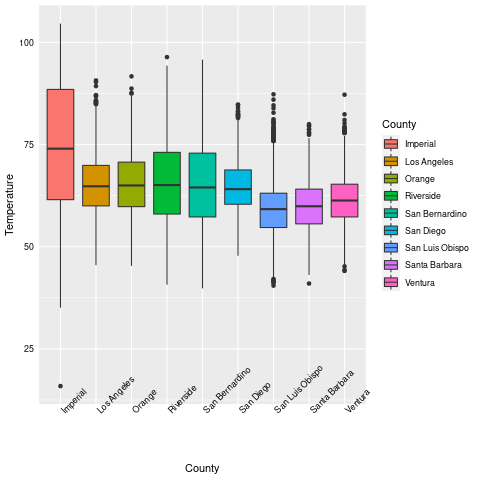
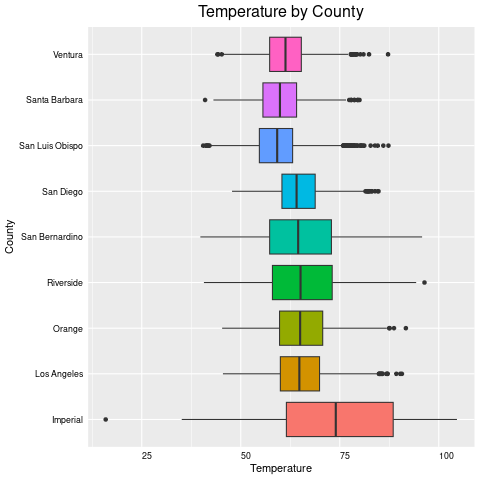
8-2-2023

diff --git a/index.html b/index.html
@@ -129,7 +129,7 @@ ul.task-list{list-style: none;}
 <!-- margin-sidebar -->
     <div id="quarto-margin-sidebar" class="sidebar margin-sidebar">
         
-    <h5 class="quarto-listing-category-title">Categories</h5><div class="quarto-listing-category category-default"><div class="category" data-category="">All <span class="quarto-category-count">(9)</span></div><div class="category" data-category="calfire">calfire <span class="quarto-category-count">(8)</span></div><div class="category" data-category="my_story">my_story <span class="quarto-category-count">(1)</span></div><div class="category" data-category="project">project <span class="quarto-category-count">(8)</span></div></div></div>
+    <h5 class="quarto-listing-category-title">Categories</h5><div class="quarto-listing-category category-default"><div class="category" data-category="">All <span class="quarto-category-count">(10)</span></div><div class="category" data-category="calfire">calfire <span class="quarto-category-count">(8)</span></div><div class="category" data-category="my_story">my_story <span class="quarto-category-count">(1)</span></div><div class="category" data-category="project">project <span class="quarto-category-count">(8)</span></div></div></div>
 <!-- main -->
 <main class="content quarto-banner-title-block column-page-left" id="quarto-document-content">
 
@@ -141,7 +141,31 @@ ul.task-list{list-style: none;}
 
 <div class="quarto-listing quarto-listing-container-default" id="listing-listing">
 <div class="list quarto-listing-default">
-<div class="quarto-post image-right" data-index="0" data-categories="project,calfire" data-listing-date-sort="1666803600000" data-listing-file-modified-sort="1667080093254" data-listing-reading-time-sort="19.295">
+<div class="quarto-post image-right" data-index="0" data-listing-file-modified-sort="1674700414182" data-listing-reading-time-sort="0">
+<div class="thumbnail">
+<a href="./posts/untitled.html">
+<div class="thumbnail-image">
+
+</div>
+</a><p><a href="./posts/untitled.html"></a></p>
+</div>
+<div class="body">
+<a href="./posts/untitled.html">
+<h3 class="no-anchor listing-title">
+</h3>
+<div class="listing-subtitle">
+
+</div>
+<div class="listing-description">
+
+</div>
+</a>
+</div>
+<div class="metadata">
+<a href="./posts/untitled.html"> </a>
+</div>
+</div>
+<div class="quarto-post image-right" data-index="1" data-categories="project,calfire" data-listing-date-sort="1666803600000" data-listing-file-modified-sort="1667080093254" data-listing-reading-time-sort="19.295">
 <div class="thumbnail">
 <p><a href="./posts/compare_index/index.html"> <img src="./posts/compare_index/r_packages.jpeg" class="thumnail-image"> </a></p>
 </div>
@@ -179,7 +203,7 @@ Lulus Adhitya
 </a>
 </div>
 </div>
-<div class="quarto-post image-right" data-index="1" data-categories="project,calfire" data-listing-date-sort="1664125200000" data-listing-file-modified-sort="1674571193973" data-listing-reading-time-sort="7.085">
+<div class="quarto-post image-right" data-index="2" data-categories="project,calfire" data-listing-date-sort="1664125200000" data-listing-file-modified-sort="1675834737480" data-listing-reading-time-sort="8.21">
 <div class="thumbnail">
 <p><a href="./posts/weather_stats/index.html"> <img src="./posts/weather_stats/stats.jpg" class="thumnail-image"> </a></p>
 </div>
@@ -217,7 +241,7 @@ Lulus Adhitya
 </a>
 </div>
 </div>
-<div class="quarto-post image-right" data-index="2" data-categories="project,calfire" data-listing-date-sort="1663779600000" data-listing-file-modified-sort="1665001934628" data-listing-reading-time-sort="2.605">
+<div class="quarto-post image-right" data-index="3" data-categories="project,calfire" data-listing-date-sort="1663779600000" data-listing-file-modified-sort="1665001934628" data-listing-reading-time-sort="2.605">
 <div class="thumbnail">
 <p><a href="./posts/southcal_fireincident/index.html"> <img src="./posts/southcal_fireincident/wildfire.jpg" class="thumnail-image"> </a></p>
 </div>
@@ -255,7 +279,7 @@ Lulus Adhitya
 </a>
 </div>
 </div>
-<div class="quarto-post image-right" data-index="3" data-categories="project,calfire" data-listing-date-sort="1663779600000" data-listing-file-modified-sort="1665059211141" data-listing-reading-time-sort="4.255">
+<div class="quarto-post image-right" data-index="4" data-categories="project,calfire" data-listing-date-sort="1663779600000" data-listing-file-modified-sort="1665059211141" data-listing-reading-time-sort="4.255">
 <div class="thumbnail">
 <p><a href="./posts/heat_index/index.html"> <img src="./posts/heat_index/heat_index.jpeg" class="thumnail-image"> </a></p>
 </div>
@@ -293,7 +317,7 @@ Lulus Adhitya
 </a>
 </div>
 </div>
-<div class="quarto-post image-right" data-index="4" data-categories="project,calfire" data-listing-date-sort="1663606800000" data-listing-file-modified-sort="1674575631393" data-listing-reading-time-sort="3.835">
+<div class="quarto-post image-right" data-index="5" data-categories="project,calfire" data-listing-date-sort="1663606800000" data-listing-file-modified-sort="1674575631393" data-listing-reading-time-sort="3.835">
 <div class="thumbnail">
 <p><a href="./posts/weather_fire/index.html"> <img src="./posts/weather_fire/storm.jpg" class="thumnail-image"> </a></p>
 </div>
@@ -331,7 +355,7 @@ Lulus Adhitya
 </a>
 </div>
 </div>
-<div class="quarto-post image-right" data-index="5" data-categories="project,calfire" data-listing-date-sort="1663520400000" data-listing-file-modified-sort="1665002014443" data-listing-reading-time-sort="0.685">
+<div class="quarto-post image-right" data-index="6" data-categories="project,calfire" data-listing-date-sort="1663520400000" data-listing-file-modified-sort="1665002014443" data-listing-reading-time-sort="0.685">
 <div class="thumbnail">
 <p><a href="./posts/detective_in_actions/index.html"> <img src="./posts/detective_in_actions/detective.jpg" class="thumnail-image"> </a></p>
 </div>
@@ -369,7 +393,7 @@ Lulus Adhitya
 </a>
 </div>
 </div>
-<div class="quarto-post image-right" data-index="6" data-categories="project,calfire" data-listing-date-sort="1662483600000" data-listing-file-modified-sort="1674658939723" data-listing-reading-time-sort="29.71">
+<div class="quarto-post image-right" data-index="7" data-categories="project,calfire" data-listing-date-sort="1662483600000" data-listing-file-modified-sort="1674658939723" data-listing-reading-time-sort="29.71">
 <div class="thumbnail">
 <p><a href="./posts/southcal_weather_2010_2020/index.html"> <img src="./posts/southcal_weather_2010_2020/weather.jpg" class="thumnail-image"> </a></p>
 </div>
@@ -407,7 +431,7 @@ Lulus Adhitya
 </a>
 </div>
 </div>
-<div class="quarto-post image-right" data-index="7" data-categories="project,calfire" data-listing-date-sort="1658595600000" data-listing-file-modified-sort="1674566779634" data-listing-reading-time-sort="3.12">
+<div class="quarto-post image-right" data-index="8" data-categories="project,calfire" data-listing-date-sort="1658595600000" data-listing-file-modified-sort="1674566779634" data-listing-reading-time-sort="3.12">
 <div class="thumbnail">
 <p><a href="./posts/wildfire_by_cause/index.html"> <img src="./posts/wildfire_by_cause/image.jpg" class="thumnail-image"> </a></p>
 </div>
@@ -445,7 +469,7 @@ Lulus Adhitya
 </a>
 </div>
 </div>
-<div class="quarto-post image-right" data-index="8" data-categories="my_story" data-listing-date-sort="1658250000000" data-listing-file-modified-sort="1663423334371" data-listing-reading-time-sort="0.17">
+<div class="quarto-post image-right" data-index="9" data-categories="my_story" data-listing-date-sort="1658250000000" data-listing-file-modified-sort="1663423334371" data-listing-reading-time-sort="0.17">
 <div class="thumbnail">
 <p><a href="./posts/welcome/index.html"> <img src="./posts/welcome/thumbnail.jpg" class="thumnail-image"> </a></p>
 </div>

diff --git a/posts/untitled.html b/posts/untitled.html
@@ -1,0 +1,209 @@
+<!DOCTYPE html>
+<html xmlns="http://www.w3.org/1999/xhtml" lang="en" xml:lang="en"><head>
+
+<meta charset="utf-8">
+<meta name="generator" content="quarto-1.0.28">
+
+<meta name="viewport" content="width=device-width, initial-scale=1.0, user-scalable=yes">
+
+
+<title>Home – untitled</title>
+<style>
+code{white-space: pre-wrap;}
+span.smallcaps{font-variant: small-caps;}
+span.underline{text-decoration: underline;}
+div.column{display: inline-block; vertical-align: top; width: 50%;}
+div.hanging-indent{margin-left: 1.5em; text-indent: -1.5em;}
+ul.task-list{list-style: none;}
+</style>
+
+
+<script src="../site_libs/quarto-nav/quarto-nav.js"></script>
+<script src="../site_libs/quarto-nav/headroom.min.js"></script>
+<script src="../site_libs/clipboard/clipboard.min.js"></script>
+<script src="../site_libs/quarto-search/autocomplete.umd.js"></script>
+<script src="../site_libs/quarto-search/fuse.min.js"></script>
+<script src="../site_libs/quarto-search/quarto-search.js"></script>
+<meta name="quarto:offset" content="../">
+<script src="../site_libs/quarto-html/quarto.js"></script>
+<script src="../site_libs/quarto-html/popper.min.js"></script>
+<script src="../site_libs/quarto-html/tippy.umd.min.js"></script>
+<script src="../site_libs/quarto-html/anchor.min.js"></script>
+<link href="../site_libs/quarto-html/tippy.css" rel="stylesheet">
+<link href="../site_libs/quarto-html/quarto-syntax-highlighting.css" rel="stylesheet" id="quarto-text-highlighting-styles">
+<script src="../site_libs/bootstrap/bootstrap.min.js"></script>
+<link href="../site_libs/bootstrap/bootstrap-icons.css" rel="stylesheet">
+<link href="../site_libs/bootstrap/bootstrap.min.css" rel="stylesheet" id="quarto-bootstrap" data-mode="light">
+<script id="quarto-search-options" type="application/json">{
+  "location": "navbar",
+  "copy-button": false,
+  "collapse-after": 3,
+  "panel-placement": "end",
+  "type": "overlay",
+  "limit": 20,
+  "language": {
+    "search-no-results-text": "No results",
+    "search-matching-documents-text": "matching documents",
+    "search-copy-link-title": "Copy link to search",
+    "search-hide-matches-text": "Hide additional matches",
+    "search-more-match-text": "more match in this document",
+    "search-more-matches-text": "more matches in this document",
+    "search-clear-button-title": "Clear",
+    "search-detached-cancel-button-title": "Cancel",
+    "search-submit-button-title": "Submit"
+  }
+}</script>
+
+
+<link rel="stylesheet" href="../styles.css">
+</head>
+
+<body class="nav-fixed fullcontent">
+
+<div id="quarto-search-results"></div>
+  <header id="quarto-header" class="headroom fixed-top">
+    <nav class="navbar navbar-expand-lg navbar-dark ">
+      <div class="navbar-container container-fluid">
+      <a class="navbar-brand" href="../index.html">
+    <span class="navbar-title">Home</span>
+  </a>
+          <button class="navbar-toggler" type="button" data-bs-toggle="collapse" data-bs-target="#navbarCollapse" aria-controls="navbarCollapse" aria-expanded="false" aria-label="Toggle navigation" onclick="if (window.quartoToggleHeadroom) { window.quartoToggleHeadroom(); }">
+  <span class="navbar-toggler-icon"></span>
+</button>
+          <div class="collapse navbar-collapse" id="navbarCollapse">
+            <ul class="navbar-nav navbar-nav-scroll ms-auto">
+  <li class="nav-item">
+    <a class="nav-link" href="../about.html">Lulus Adhitya Kahono</a>
+  </li>  
+  <li class="nav-item compact">
+    <a class="nav-link" href="https://github.com/"><i class="bi bi-github" role="img">
+</i> 
+ </a>
+  </li>  
+  <li class="nav-item compact">
+    <a class="nav-link" href="https://twitter.com"><i class="bi bi-twitter" role="img">
+</i> 
+ </a>
+  </li>  
+</ul>
+              <div id="quarto-search" class="" title="Search"></div>
+          </div> <!-- /navcollapse -->
+      </div> <!-- /container-fluid -->
+    </nav>
+</header>
+<!-- content -->
+<div id="quarto-content" class="quarto-container page-columns page-rows-contents page-layout-article page-navbar">
+<!-- sidebar -->
+<!-- margin-sidebar -->
+    
+<!-- main -->
+<main class="content quarto-banner-title-block" id="quarto-document-content">
+
+
+
+
+
+
+</main> <!-- /main -->
+<script id="quarto-html-after-body" type="application/javascript">
+window.document.addEventListener("DOMContentLoaded", function (event) {
+  const toggleBodyColorMode = (bsSheetEl) => {
+    const mode = bsSheetEl.getAttribute("data-mode");
+    const bodyEl = window.document.querySelector("body");
+    if (mode === "dark") {
+      bodyEl.classList.add("quarto-dark");
+      bodyEl.classList.remove("quarto-light");
+    } else {
+      bodyEl.classList.add("quarto-light");
+      bodyEl.classList.remove("quarto-dark");
+    }
+  }
+  const toggleBodyColorPrimary = () => {
+    const bsSheetEl = window.document.querySelector("link#quarto-bootstrap");
+    if (bsSheetEl) {
+      toggleBodyColorMode(bsSheetEl);
+    }
+  }
+  toggleBodyColorPrimary();  
+  const icon = "";
+  const anchorJS = new window.AnchorJS();
+  anchorJS.options = {
+    placement: 'right',
+    icon: icon
+  };
+  anchorJS.add('.anchored');
+  const clipboard = new window.ClipboardJS('.code-copy-button', {
+    target: function(trigger) {
+      return trigger.previousElementSibling;
+    }
+  });
+  clipboard.on('success', function(e) {
+    // button target
+    const button = e.trigger;
+    // don't keep focus
+    button.blur();
+    // flash "checked"
+    button.classList.add('code-copy-button-checked');
+    var currentTitle = button.getAttribute("title");
+    button.setAttribute("title", "Copied!");
+    setTimeout(function() {
+      button.setAttribute("title", currentTitle);
+      button.classList.remove('code-copy-button-checked');
+    }, 1000);
+    // clear code selection
+    e.clearSelection();
+  });
+  function tippyHover(el, contentFn) {
+    const config = {
+      allowHTML: true,
+      content: contentFn,
+      maxWidth: 500,
+      delay: 100,
+      arrow: false,
+      appendTo: function(el) {
+          return el.parentElement;
+      },
+      interactive: true,
+      interactiveBorder: 10,
+      theme: 'quarto',
+      placement: 'bottom-start'
+    };
+    window.tippy(el, config); 
+  }
+  const noterefs = window.document.querySelectorAll('a[role="doc-noteref"]');
+  for (var i=0; i<noterefs.length; i++) {
+    const ref = noterefs[i];
+    tippyHover(ref, function() {
+      let href = ref.getAttribute('href');
+      try { href = new URL(href).hash; } catch {}
+      const id = href.replace(/^#\/?/, "");
+      const note = window.document.getElementById(id);
+      return note.innerHTML;
+    });
+  }
+  var bibliorefs = window.document.querySelectorAll('a[role="doc-biblioref"]');
+  for (var i=0; i<bibliorefs.length; i++) {
+    const ref = bibliorefs[i];
+    const cites = ref.parentNode.getAttribute('data-cites').split(' ');
+    tippyHover(ref, function() {
+      var popup = window.document.createElement('div');
+      cites.forEach(function(cite) {
+        var citeDiv = window.document.createElement('div');
+        citeDiv.classList.add('hanging-indent');
+        citeDiv.classList.add('csl-entry');
+        var biblioDiv = window.document.getElementById('ref-' + cite);
+        if (biblioDiv) {
+          citeDiv.innerHTML = biblioDiv.innerHTML;
+        }
+        popup.appendChild(citeDiv);
+      });
+      return popup.innerHTML;
+    });
+  }
+});
+</script>
+</div> <!-- /content -->
+
+
+
+</body></html>

diff --git a/posts/weather_stats/index.html b/posts/weather_stats/index.html
@@ -272,6 +272,11 @@ code span.wa { color: #60a0b0; font-weight: bold; font-style: italic; } /* Warni
 <h1>Welch ANOVA Test</h1>
 <section id="geographic-locations-effect-to-level-of-temperature" class="level2">
 <h2 class="anchored" data-anchor-id="geographic-locations-effect-to-level-of-temperature">1. Geographic locations effect to level of Temperature</h2>
+<div class="cell" data-execution_count="9">
+<div class="cell-output cell-output-display">
+<p><img src="index_files/figure-html/cell-10-output-1.png" class="img-fluid"></p>
+</div>
+</div>
 <div class="sourceCode" id="cb1"><pre class="sourceCode r code-with-copy"><code class="sourceCode r"><span id="cb1-1"><a href="#cb1-1" aria-hidden="true" tabindex="-1"></a><span class="sc">%%</span>R</span>
 <span id="cb1-2"><a href="#cb1-2" aria-hidden="true" tabindex="-1"></a><span class="fu">oneway.test</span>(Temperature <span class="sc">~</span> County,</span>
 <span id="cb1-3"><a href="#cb1-3" aria-hidden="true" tabindex="-1"></a>  <span class="at">data =</span> subset,</span>
@@ -292,6 +297,11 @@ code span.wa { color: #60a0b0; font-weight: bold; font-style: italic; } /* Warni
 </section>
 <section id="geographic-locations-effect-to-level-of-relative-humidity" class="level2">
 <h2 class="anchored" data-anchor-id="geographic-locations-effect-to-level-of-relative-humidity">2. Geographic locations effect to level of Relative Humidity</h2>
+<div class="cell" data-execution_count="13">
+<div class="cell-output cell-output-display">
+<p><img src="index_files/figure-html/cell-14-output-1.png" class="img-fluid"></p>
+</div>
+</div>
 <div class="sourceCode" id="cb3"><pre class="sourceCode r code-with-copy"><code class="sourceCode r"><span id="cb3-1"><a href="#cb3-1" aria-hidden="true" tabindex="-1"></a><span class="sc">%%</span>R</span>
 <span id="cb3-2"><a href="#cb3-2" aria-hidden="true" tabindex="-1"></a><span class="fu">oneway.test</span>(subset<span class="sc">$</span><span class="st">'Relative Humidity'</span> <span class="sc">~</span> County,</span>
 <span id="cb3-3"><a href="#cb3-3" aria-hidden="true" tabindex="-1"></a>  <span class="at">data =</span> subset,</span>
@@ -312,6 +322,11 @@ code span.wa { color: #60a0b0; font-weight: bold; font-style: italic; } /* Warni
 </section>
 <section id="geographic-locations-effect-to-level-of-cloud-cover" class="level2">
 <h2 class="anchored" data-anchor-id="geographic-locations-effect-to-level-of-cloud-cover">3. Geographic locations effect to level of Cloud Cover</h2>
+<div class="cell" data-execution_count="17">
+<div class="cell-output cell-output-display">
+<p><img src="index_files/figure-html/cell-18-output-1.png" class="img-fluid"></p>
+</div>
+</div>
 <div class="sourceCode" id="cb5"><pre class="sourceCode r code-with-copy"><code class="sourceCode r"><span id="cb5-1"><a href="#cb5-1" aria-hidden="true" tabindex="-1"></a><span class="sc">%%</span>R</span>
 <span id="cb5-2"><a href="#cb5-2" aria-hidden="true" tabindex="-1"></a><span class="fu">oneway.test</span>(subset<span class="sc">$</span><span class="st">'Cloud Cover'</span> <span class="sc">~</span> County,</span>
 <span id="cb5-3"><a href="#cb5-3" aria-hidden="true" tabindex="-1"></a>  <span class="at">data =</span> subset,</span>
@@ -332,6 +347,11 @@ code span.wa { color: #60a0b0; font-weight: bold; font-style: italic; } /* Warni
 </section>
 <section id="geographic-locations-effect-to-level-of-wind-direction" class="level2">
 <h2 class="anchored" data-anchor-id="geographic-locations-effect-to-level-of-wind-direction">4. Geographic locations effect to level of Wind Direction</h2>
+<div class="cell" data-execution_count="21">
+<div class="cell-output cell-output-display">
+<p><img src="index_files/figure-html/cell-22-output-1.png" class="img-fluid"></p>
+</div>
+</div>
 <div class="sourceCode" id="cb7"><pre class="sourceCode r code-with-copy"><code class="sourceCode r"><span id="cb7-1"><a href="#cb7-1" aria-hidden="true" tabindex="-1"></a><span class="sc">%%</span>R</span>
 <span id="cb7-2"><a href="#cb7-2" aria-hidden="true" tabindex="-1"></a><span class="fu">oneway.test</span>(subset<span class="sc">$</span><span class="st">'Wind Direction'</span> <span class="sc">~</span> County,</span>
 <span id="cb7-3"><a href="#cb7-3" aria-hidden="true" tabindex="-1"></a>  <span class="at">data =</span> subset,</span>
